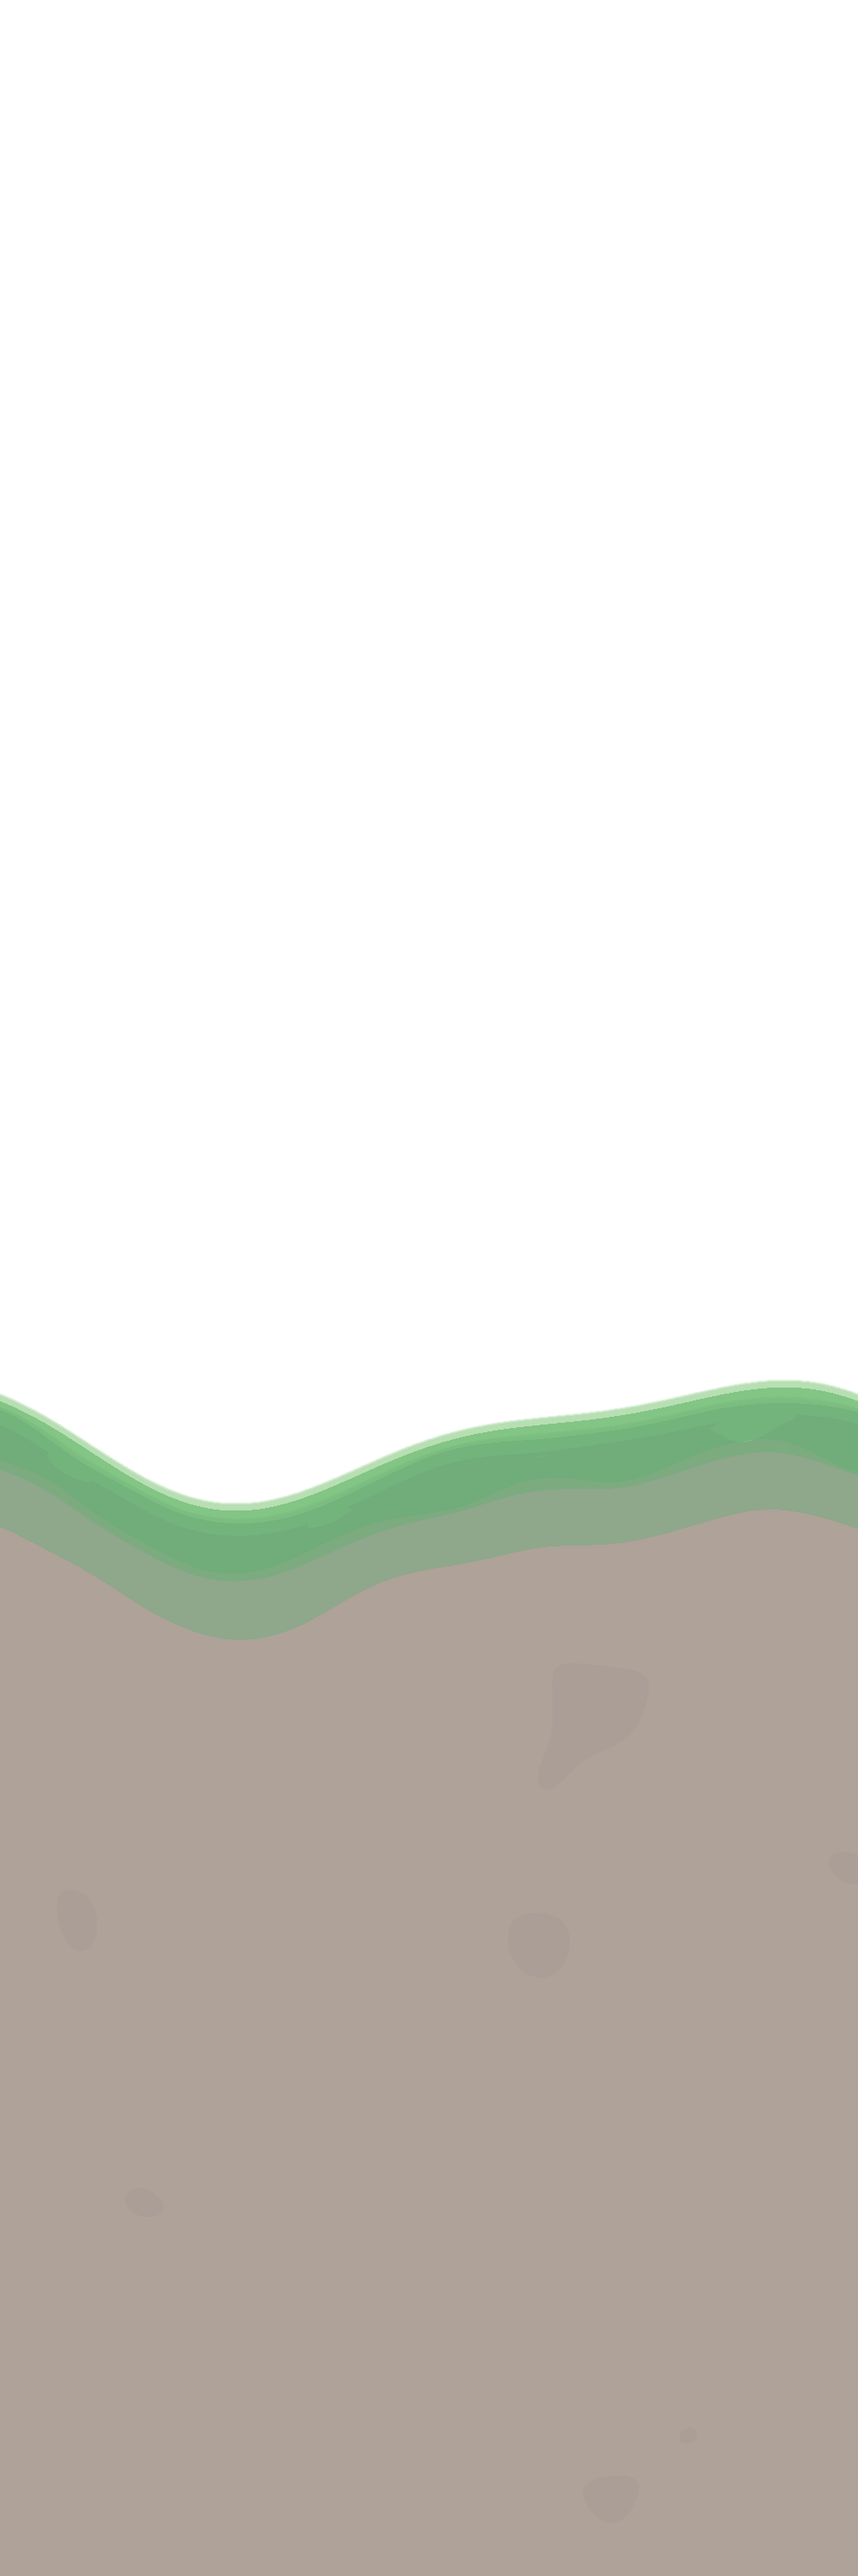
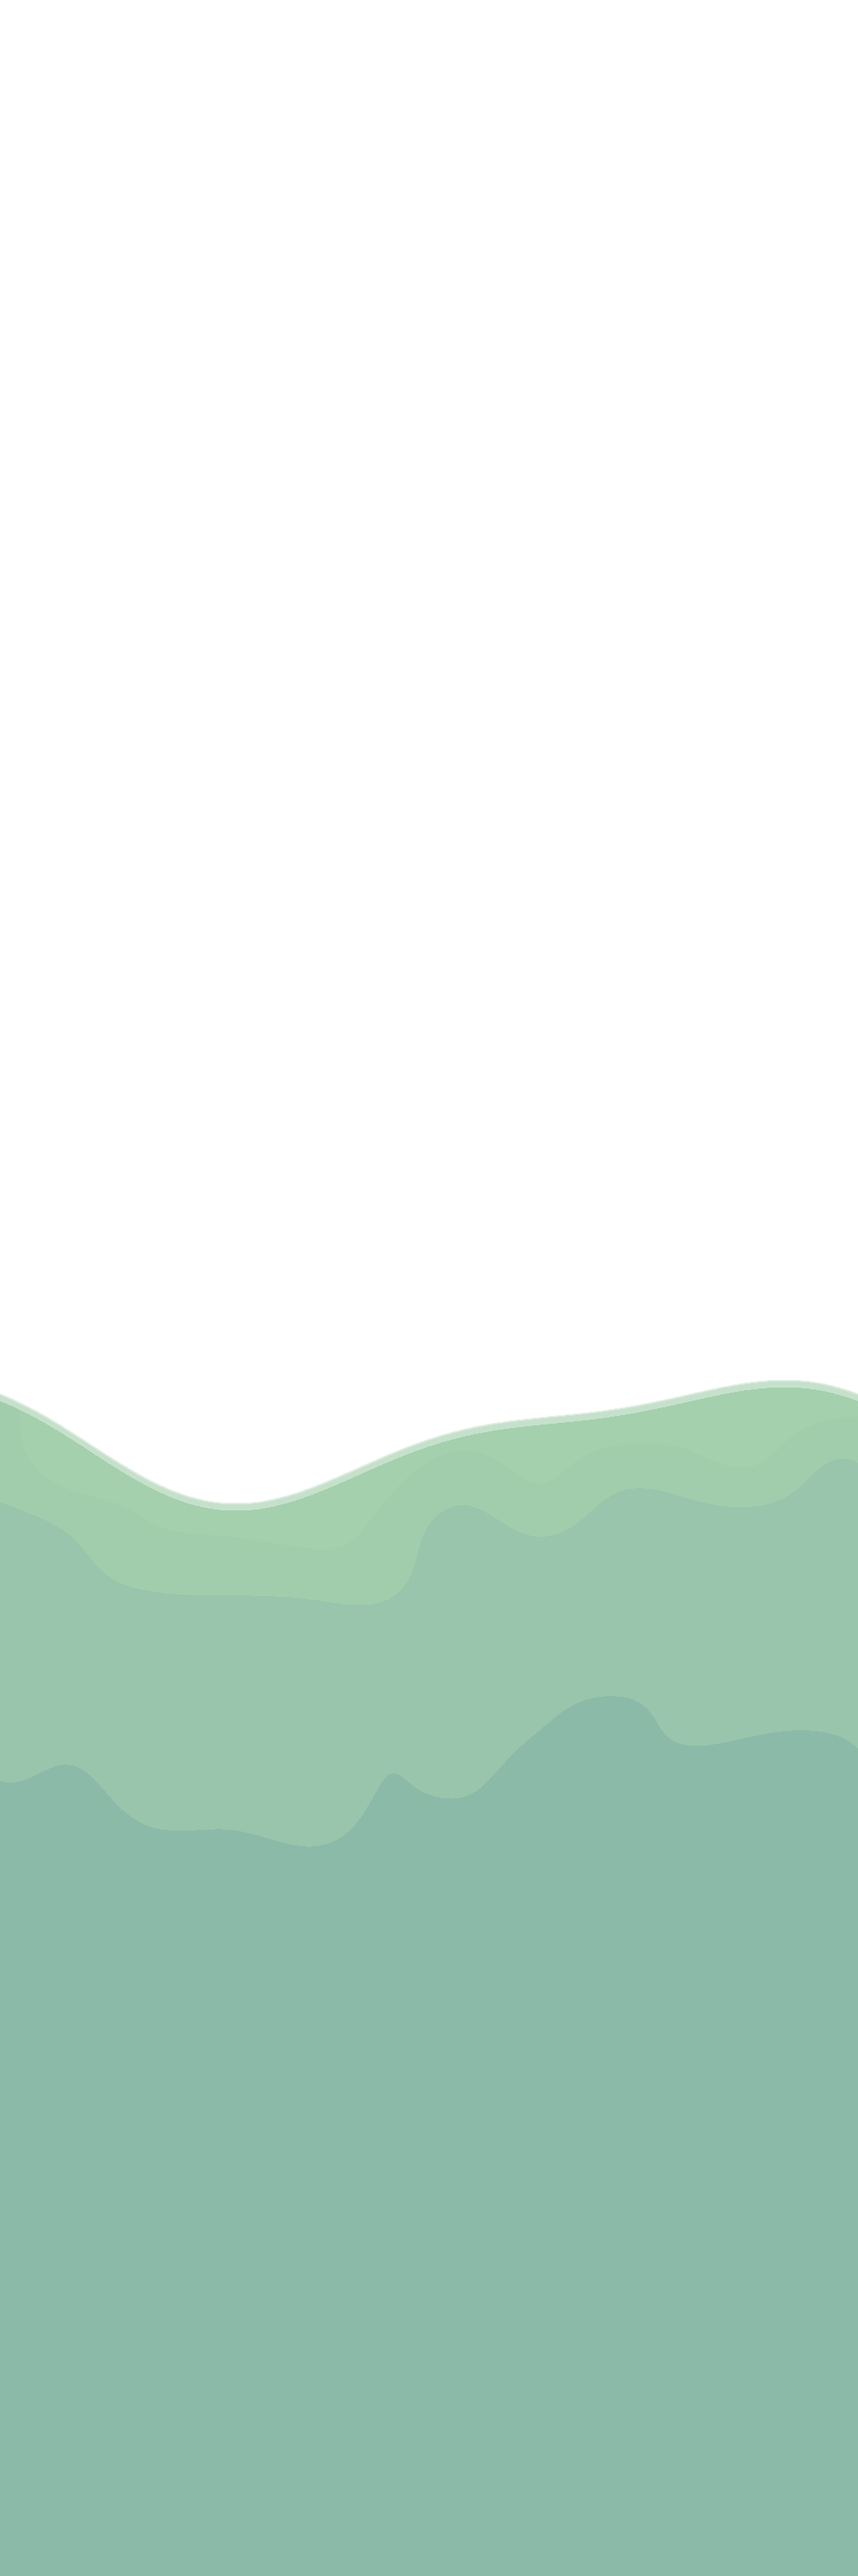
Eng-bakgrunn: fjerne grønnblå åser uten brun jord, så de ikke ligner bakken
Claude-Session: https://claude.ai/code/session_01Fvyg5es7gUXvAHJVM5Veto

diff --git a/Util/grafikk/lag_bakgrunn.py b/Util/grafikk/lag_bakgrunn.py
@@ -146,13 +146,13 @@ def eng_stripe(n, lag, rng):
     fast = yy > topp[None, :]
     from scipy import ndimage as nd
     ned = (yy - topp[None, :]).clip(0)
-    gress = [hexf("6CCB5F"), hexf("8FCF8A"), hexf("A9D3B4")][lag - 1]
-    gress_m = [hexf("3E9A47"), hexf("6BAE78"), hexf("8DBDA4")][lag - 1]
-    jord = [hexf("9E7A5C"), hexf("AFA39A"), hexf("BFC6CC")][lag - 1]   # blekere jo lenger unna
-    t = np.clip(ned / 40, 0, 1)            # gresset er en tynn kant
-    rgb = gress[None, None] * (1 - t[..., None]) + gress_m[None, None] * t[..., None]
-    t2 = np.clip((ned - 45) / 140, 0, 1)    # så jord
-    rgb = rgb * (1 - t2[..., None]) + jord[None, None] * t2[..., None]
+    # Fjerne åser: grønne som går mot blått jo lenger unna, uten brun jord,
+    # så de ikke kan forveksles med bakken marken ruller på.
+    topp_f = [hexf("8CC98A"), hexf("A6D2AE"), hexf("BFDCD2")][lag - 1]
+    bunn_f = [hexf("6FA88A"), hexf("8DBBAA"), hexf("A9C9CC")][lag - 1]
+    t = np.clip(ned / 500, 0, 1)
+    rgb = topp_f[None, None] * (1 - t[..., None]) + bunn_f[None, None] * t[..., None]
+    gress = topp_f
     rgb *= (1 + 0.02 * stoy(rng, 80))[..., None]
     lysrand = (ned > 0) & (ned < 8)
     rgb[lysrand] = mix(gress, hexf("FFFFFF"), 0.35)
@@ -164,11 +164,11 @@ def eng_stripe(n, lag, rng):
     if lag == 3:
         # skyer høyt oppe
         sky = Image.new("RGBA", (W * 3, H), (0, 0, 0, 0))
-        for _ in range(3):
-            # hver sky i sitt eget lag, så den flate undersiden ikke kutter naboskyer
+        for k in range(3):
+            # hver sky i sitt eget lag, spredt jevnt bortover så de ikke overlapper
             en = Image.new("RGBA", (W * 3, H), (0, 0, 0, 0))
             d = ImageDraw.Draw(en)
-            cx = rng.uniform(0, W) + W
+            cx = W * (k + 0.5) / 3 + rng.uniform(-60, 60) + W
             cy = rng.uniform(0.12, b0 - 0.05) * H
             for j in range(9):
                 dx = (j - 4) * 32 + rng.uniform(-10, 10)
